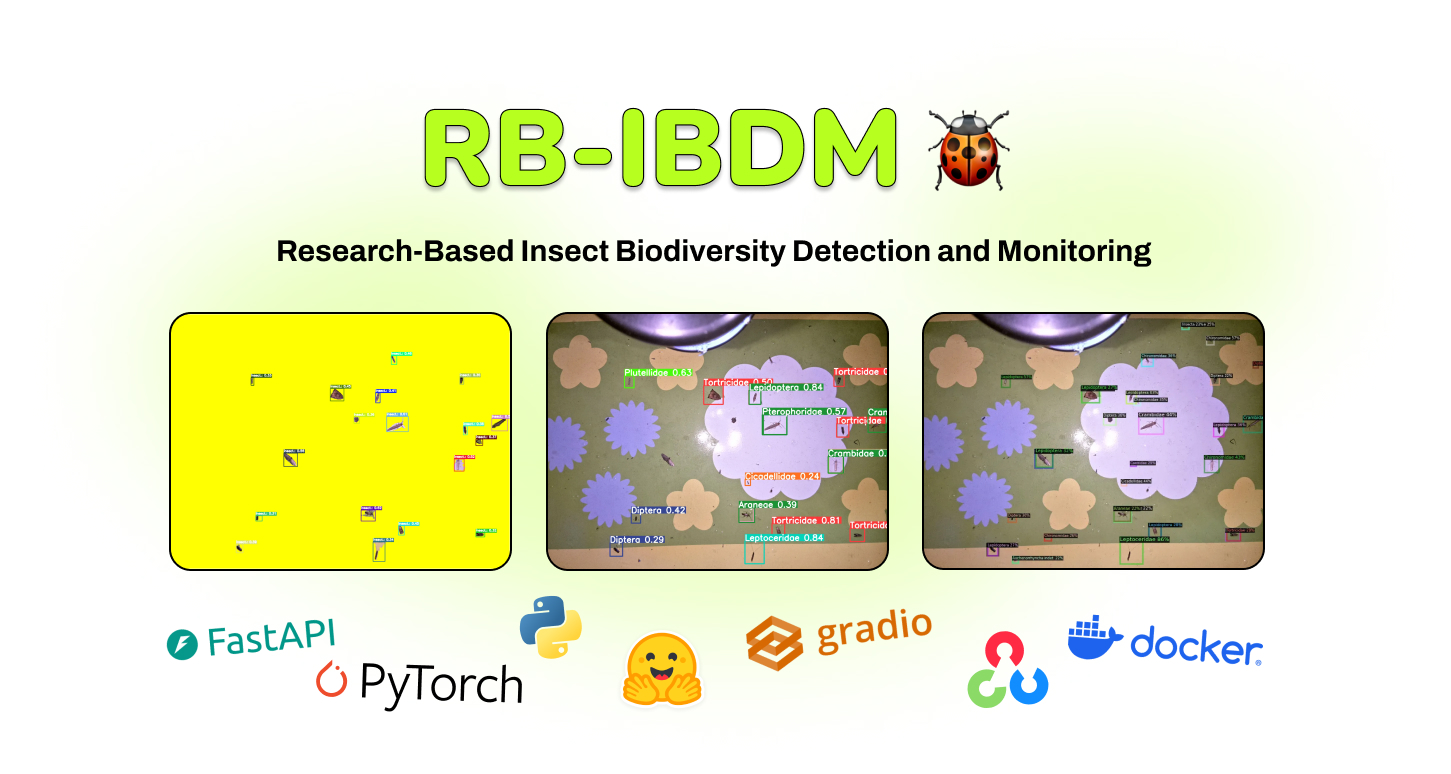
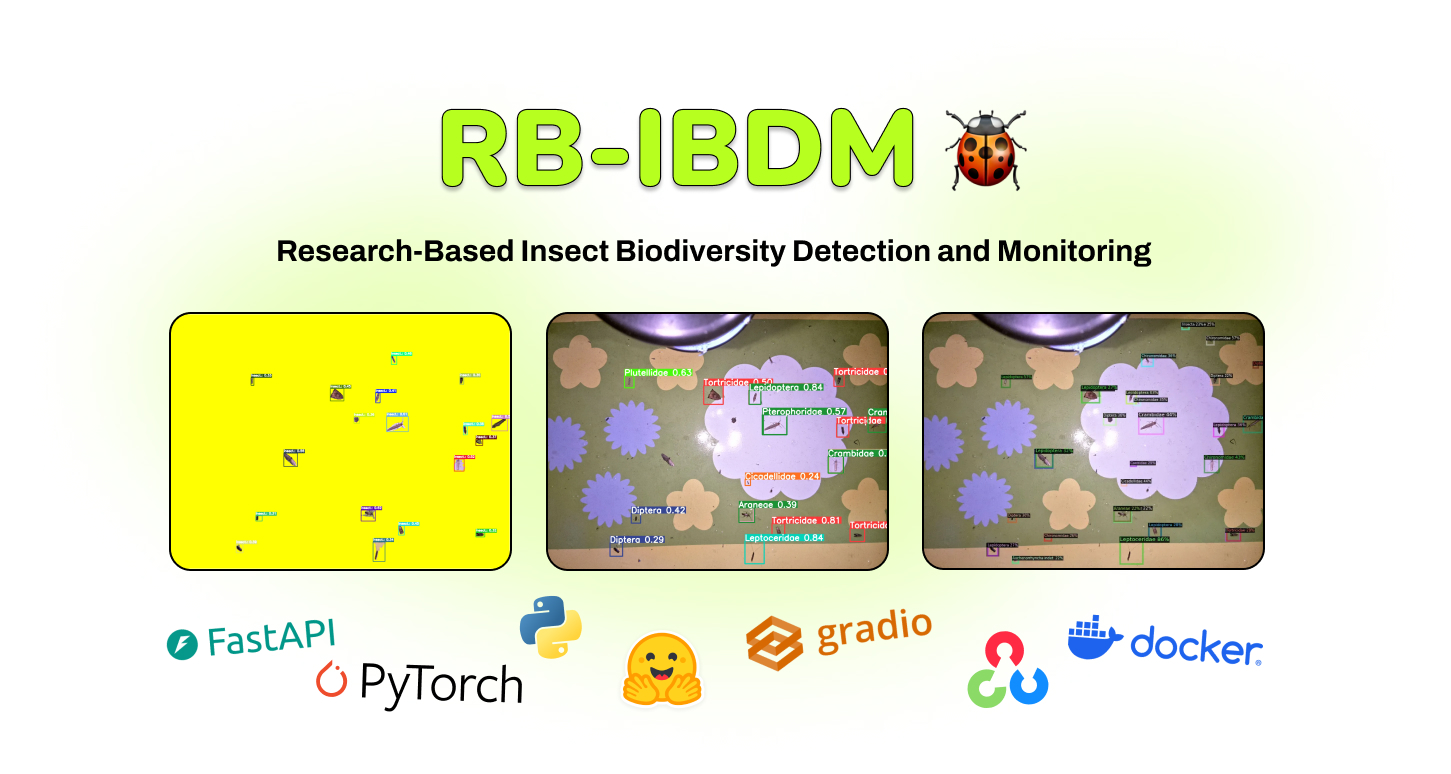
social card change

Changed region(s): [[0.2791, 0.124, 0.7133, 0.2481]]

diff --git a/README.md b/README.md
@@ -1,6 +1,6 @@
 <p align="center">
   <a href="" rel="noopener">
- <img src="https://i.imgur.com/e6znkoO.jpeg alt="Project logo"></a>
+ <img src="https://i.imgur.com/kLGQnO3.jpeg alt="Project logo"></a>
 </p>
 
 <h3 align="center">Research-Based Insect Biodiversity Detection and Monitoring</h3>
